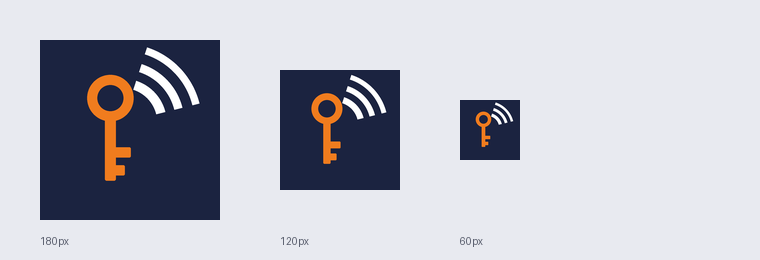
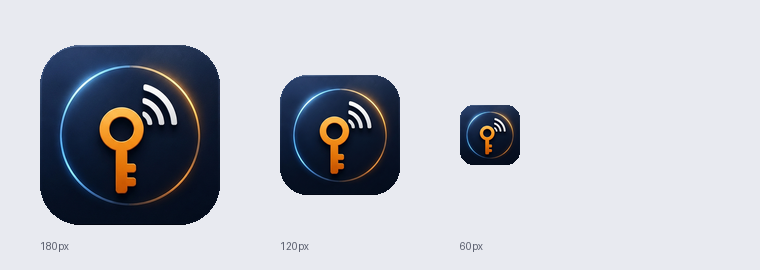
KeyTag: アプリアイコンを差し替え（提供された絵を切り出して規定サイズ化）
利用者から受け取った絵（濃紺の角丸・橙の鍵・白いNFC電波・青〜橙のリング）を
採用。元画像は1024pxの中にアイコンが余白付きで置かれていたため、そのままだと
iOSがさらに角丸で切って絵が小さくなる。アイコン本体（684×684）だけを切り出して
1024×1024にした。アルファ無しのRGB（App Storeは透過を弾く）。

■ 四隅の埋め方
最初は単色で塗ったが縁が明るく浮いた。このアイコンは中央が明るく端が暗い
グラデーションなので、内側から拾った色は角には合わない。
→ 切り出した絵そのものを1.18倍にしたものを下敷きにする方式に変更。
  角には「その位置の絵の続き」が来るので境目が出ない。

■ iOSの角丸との噛み合わせ（実測）
  iOSが切る位置        角から約66px（スーパー楕円 n=5 相当）
  元絵の角丸の縁        角から約70px
  差                  4px＝アイコン幅の0.4%。目視では分からない
四隅を絵の続きで埋めてあるため、マスクが多少ズレても暗い三角形は出ない。
60pxでも鍵と電波が判別できることを確認済み。

■ 整理
・自前生成の make_icon.py は役目を終えたので削除（crop_icon.py が現行）
・検証用の画像は容量を食うので削除。実測値は crop_icon.py の説明に残した

diff --git a/keyline/keytag/icon-src/crop_icon.py b/keyline/keytag/icon-src/crop_icon.py
@@ -1,0 +1,97 @@
+"""アイコン画像から、アイコン本体だけを切り出して規定サイズにする。
+
+★アイコンの元絵は画像生成で作ったものを利用者から受け取っている。
+  再生成が必要になったら、同じ構図（濃紺の角丸・橙の鍵・白いNFC電波・
+  青〜橙のリング）で作り直し、このスクリプトに通すこと。
+
+★iOSは1024×1024の**角を丸めていない正方形**を要求し、角丸は自分でかける。
+  実測（2026-08-18）: iOSが切る位置は角から約66px、元絵に描かれた角丸の縁は
+  約70px。差は4pxで目視では分からない。四隅を「絵の続き」で埋めてあるので、
+  マスクが多少ズレても暗い三角形は出ない。
+
+元画像は 1024×1024 の中に、角丸四角のアイコンが**余白付きで**置かれている。
+そのまま使うと iOS がさらに角丸で切るため、絵が小さくなり四隅に余計な背景が残る。
+
+やること
+  1. 明るさの段差からアイコン本体の四角を見つけて切り出す
+  2. 角丸の外側（元の背景）を、アイコン自身の地色で塗り潰す
+     → iOS の角丸マスクとズレても、暗い縁が出ない
+  3. 1024×1024（App Store 提出の規定サイズ）にする
+  4. **アルファチャンネルを持たせない**（App Store は透過を弾く）
+"""
+from PIL import Image, ImageDraw
+import numpy as np
+import os
+
+SRC = "/Users/apple/Library/CloudStorage/Dropbox-個人/カメラアップロード/2026-08-18 10.17.57.png"
+OUT_SIZE = 1024
+
+im = Image.open(SRC).convert("RGB")
+a = np.asarray(im).astype(int)
+lum = a.sum(axis=2)
+
+
+def span(profile):
+    """外側の暗い背景とアイコンの段差から、端の位置を返す。"""
+    base = np.median(np.r_[profile[:60], profile[-60:]])
+    peak = np.median(profile[len(profile) // 2 - 100:len(profile) // 2 + 100])
+    idx = np.where(profile > base + (peak - base) * 0.35)[0]
+    return int(idx.min()), int(idx.max())
+
+
+# 横は中央行が安定している。縦は絵の下側が地色に近く段差が出ないため、
+# 「正方形である」ことを使って横幅から決める（アイコンは必ず正方形）
+x0, x1 = span(lum[im.height // 2, :])
+size = x1 - x0 + 1
+y0, _ = span(lum[:, 300])          # 上端だけは左寄りの列で安定して取れる
+y1 = y0 + size - 1
+print(f"切り出し: ({x0}, {y0}) から {size}×{size}")
+
+crop = im.crop((x0, y0, x0 + size, y0 + size))
+
+# 角丸の外側（元の背景）をどう埋めるか。
+#
+# ★ここを単色で塗ると縁が浮く（最初にやって失敗した）。
+#   アイコンは中央が明るく端が暗いグラデーションなので、
+#   内側から拾った色は角には明るすぎる。
+# → 切り出した絵そのものを少し拡大して下敷きにする。
+#   角には「その位置の絵の続き」が来るので、境目が出ない。
+c = np.asarray(crop).astype(int)
+grow = int(size * 1.18)
+canvas = crop.resize((grow, grow), Image.LANCZOS).crop(
+    ((grow - size) // 2, (grow - size) // 2,
+     (grow - size) // 2 + size, (grow - size) // 2 + size))
+
+mask = Image.new("L", (size, size), 0)
+ImageDraw.Draw(mask).rounded_rectangle([0, 0, size - 1, size - 1],
+                                       radius=int(size * 0.225), fill=255)
+canvas.paste(crop, (0, 0), mask)
+
+edge = np.vstack([c[0:24, size // 3:size * 2 // 3].reshape(-1, 3),
+                  c[size // 3:size * 2 // 3, 0:24].reshape(-1, 3)])
+print("端の色（参考）:", tuple(np.median(edge, axis=0).astype(int)))
+
+icon = canvas.resize((OUT_SIZE, OUT_SIZE), Image.LANCZOS)
+
+out = "ios/App/App/Assets.xcassets/AppIcon.appiconset/AppIcon-512@2x.png"
+os.makedirs(os.path.dirname(out), exist_ok=True)
+icon.save(out, "PNG")                      # RGB のまま＝アルファ無し
+print(f"✅ {out}  {icon.size}  mode={icon.mode}")
+
+# 実際の見え方を確かめる（アイコンは60pxでも読めないと意味がない）
+os.makedirs("icon-src", exist_ok=True)
+for s in (180, 120, 60):
+    icon.resize((s, s), Image.LANCZOS).save(f"icon-src/preview-{s}.png")
+
+sheet = Image.new("RGB", (760, 270), (232, 234, 240))
+d = ImageDraw.Draw(sheet)
+x = 40
+for s in (180, 120, 60):
+    r = icon.resize((s, s), Image.LANCZOS)
+    m = Image.new("L", (s, s), 0)
+    ImageDraw.Draw(m).rounded_rectangle([0, 0, s - 1, s - 1], radius=int(s * 0.225), fill=255)
+    sheet.paste(r, (x, 45 + (180 - s) // 2), m)      # iOSの角丸を再現して確認する
+    d.text((x, 240), f"{s}px", fill=(90, 95, 110))
+    x += s + 60
+sheet.save("icon-src/preview-sizes.png")
+print("✅ icon-src/preview-sizes.png（iOSの角丸を当てた状態）")
